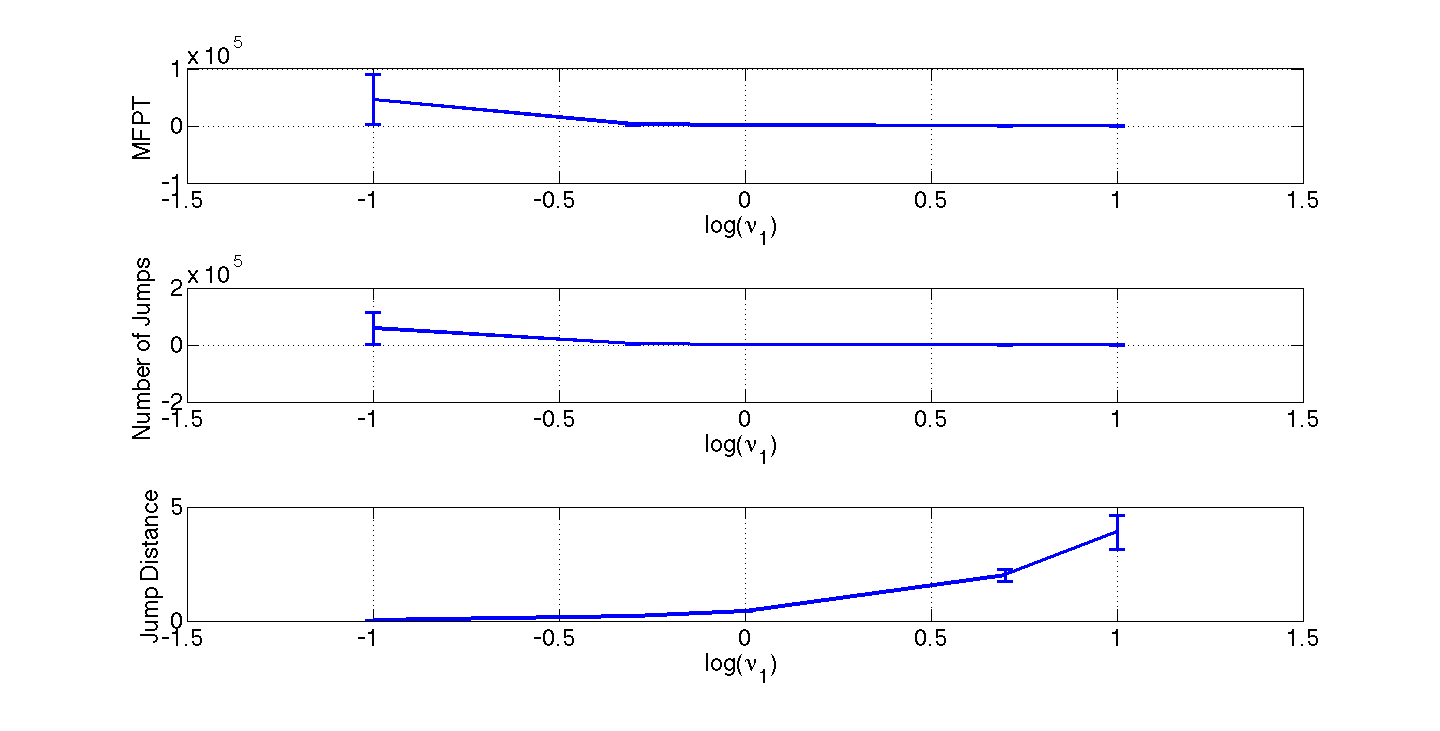
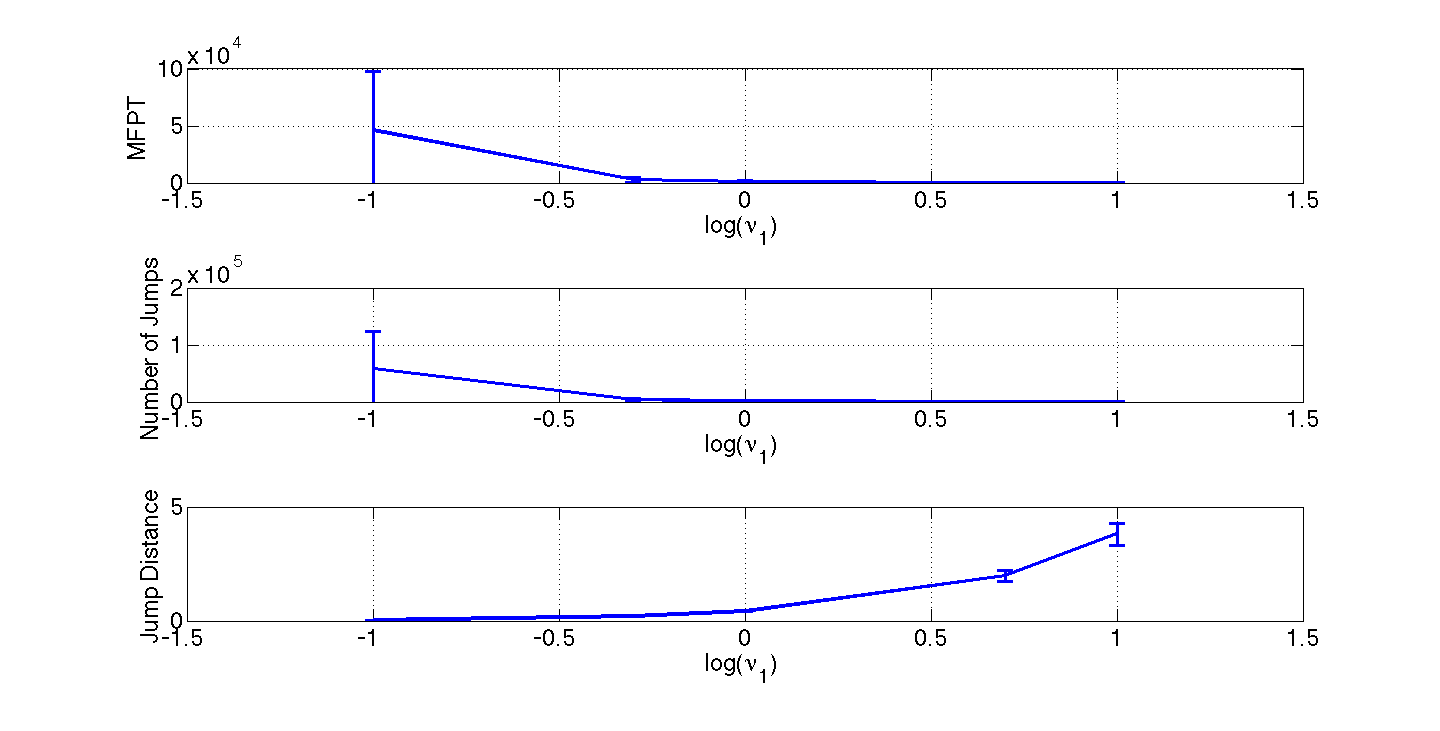
Added script to plot sensitivity for q distribution and figures for this.

diff --git a/evaluate_and_plot_entropy_summary_stat.m b/evaluate_and_plot_entropy_summary_stat.m
@@ -1,0 +1,50 @@
+function evaluate_and_plot_entropy_summary_stat(plot_option)
+%last edit 17/6/15
+%created 16/5/15 harrison
+%runs velocityjump2D_Nucleus which is a velocity jump process for a single particle
+%runs this many times for many particles and returns simulated estimates of
+%entropy
+total=tic;
+close all
+
+params.nu1 = 1.16; %speed of RNP complex under active transport [zimyanin et al 2008]
+params.nu2 = 0.80; %ratio between speed for active transport vs diffusion [zimyanin et al 2008]
+params.lambda_1=0;   %1/0.13; %transition rate =7.69 [zimyanin et al 2008]
+params.lambda_2 = 0.11;
+params.omega_1= 0.42;    %1/6*(num_modes>1); %rate of falling off the microtubule [zimyanin et al 2008] since average track length 2.4 - 2.8 microns -> average jump for 6s -> rate 1/6
+params.omega_2 = 0.84;
+params.phi = 0.58; %percentage of microtubules in posterior direction for biased angle distn [parton et al 2011]
+params.x_0=0.5;  %Initially in first compartment, ie. at NPC
+params.Lx = 52; %length of cell in x direction
+params.Ly = 37; %in y direction
+params.nuc_radius = 10; %radius of nucleus
+params.theta_0 = 0; %initial angle is 0
+
+param_vec = 0.4:0.05:0.8; %[0.001, 0.01,0.1,0.5,1,5,10]; 0.5:0.02:0.8;
+my_length = length(param_vec);
+%my_length = 1;
+
+M=53;
+q_storage = zeros(my_length,M);
+
+num_particles = 100;
+    
+
+for k=1:my_length
+    
+    params.phi = param_vec(k);
+    
+    q_distn = summary_statistic_calculator(params,num_particles,0,0);
+    q_storage(k,:) = q_distn;
+end
+if plot_option
+    figure;
+    imagesc((param_vec),0:52,q_storage')
+    set(gca, 'fontsize',24);
+    xlabel('\phi');
+    ylabel('q');
+    
+end
+toc(total)
+
+end

diff --git a/evaluate_mfpt_simpler_version.m b/evaluate_mfpt_simpler_version.m
@@ -75,7 +75,7 @@ if plot_option
     xlabel('log(\nu_1)');
     ylabel('MFPT');
     grid on
-%    axis([param_vec(1)-0.05,param_vec(end)+0.05, 0, 3600*t_max]);
+    axis([-1.5,1.5, 0,100000]);
 
     %figure;
     subplot(3,1,2)
@@ -84,6 +84,7 @@ if plot_option
     xlabel('log(\nu_1)');
     ylabel('Number of Jumps');
     grid on
+    axis([-1.5,1.5, 0,200000]);
     
     %figure;
     subplot(3,1,3)
